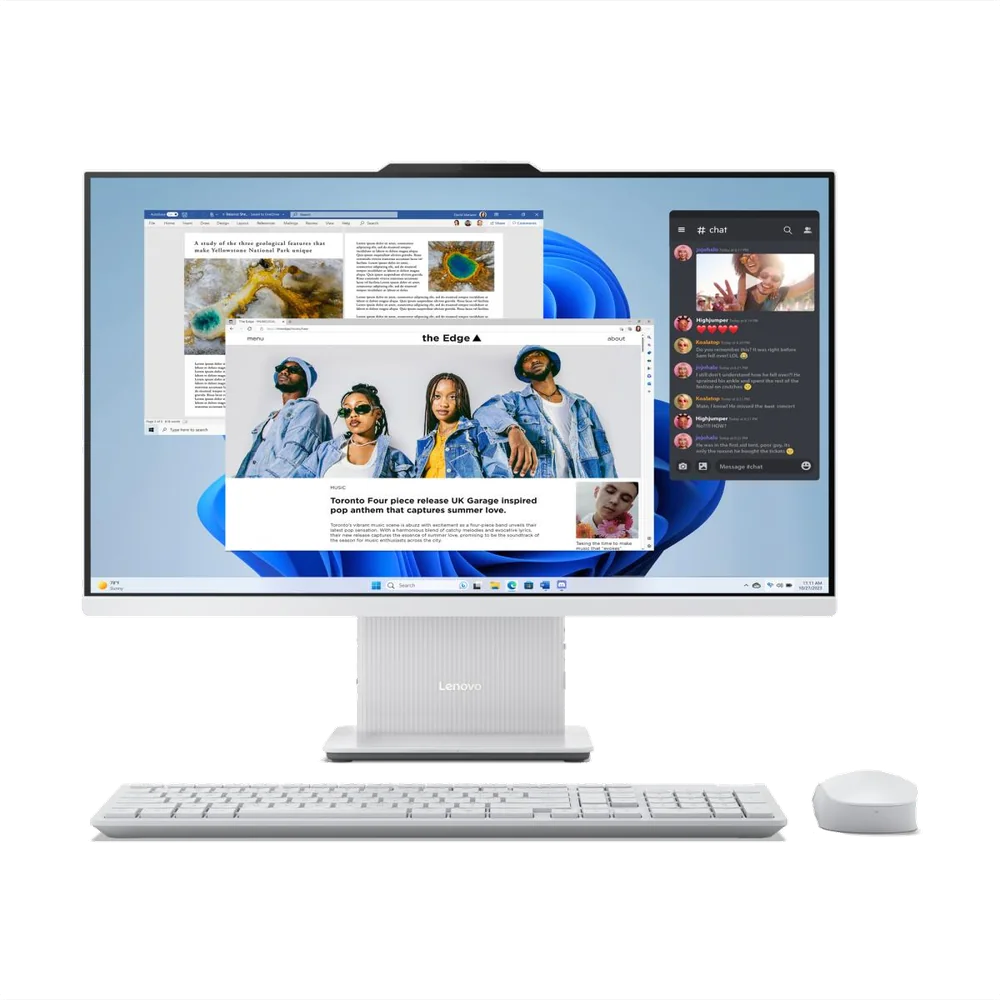
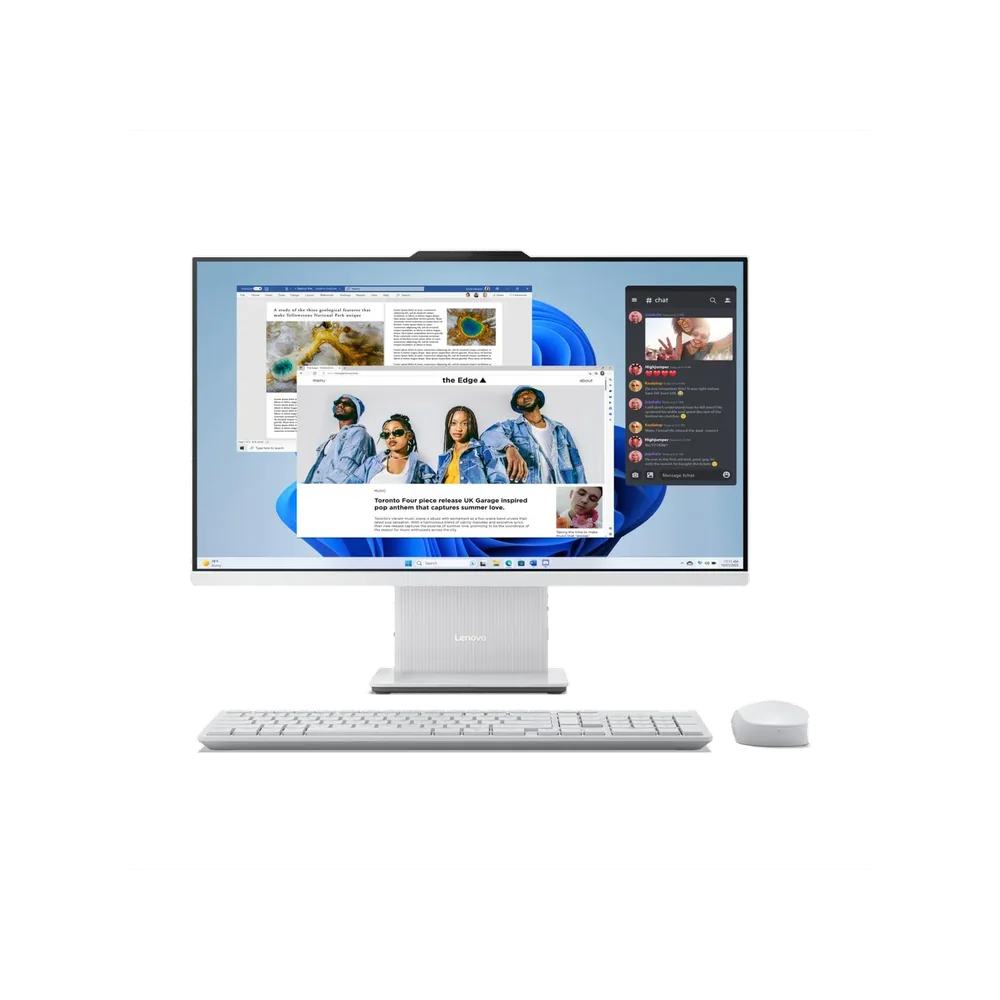
Fix Lenovo monoblock photo scale [skip ci]

diff --git a/PROJECT_STATUS.md b/PROJECT_STATUS.md
@@ -343,3 +343,16 @@ After owner review, continue with photos for other categories. Laptops after com
 - GitHub Pages build/deployment for the correction commit e6e80a8647a9eb64d841a38d4a919aac85c1db71 completed successfully (run 39471990812).
 - Static verification confirmed all seven monoblock cards, 26 existing monoblock WebP gallery files, unchanged product-page gallery logic, unchanged protected files, and the responsive image rules.
 - An interactive browser/screenshot runtime was not available in this environment, so live hover/touch interaction and pixel-level visual comparison could not be performed here. The CSS and asset checks were completed from the published source tree and deployment result.
+
+## Lenovo monoblock photo scale correction (2026-10-20)
+
+- Reframed only the main images for mono-004 (Lenovo IdeaCentre 27IRH9 Core i7) and mono-005 (Lenovo IdeaCentre 27IRH9 Core i5) on a 1000x1000 transparent canvas with a 0.74 visible-image ratio, preserving proportions and adding margins around the complete device.
+- Kept the existing monoblock CSS unchanged: the Lenovo badge remains above the image and the existing smooth hover animation, transition and card dimensions are preserved.
+- Did not modify HP mono-001, mono-003 or mono-007, MSI mono-006, the mono-002 placeholder, or any additional gallery image.
+- Product IDs, SKUs, titles, characteristics, prices, products.json, product.html, product.js, price.csv, filters, laptops and other categories remain protected.
+
+### Scope checks
+
+- Checked all seven monoblock card IDs and retained the existing main.webp links and product gallery arrays.
+- Protected every other asset under assets/products, every category page, product-page files, product data and price.csv; the correction script aborts on an unexpected change.
+- GitHub Pages and interactive visual checks are completed after the final commit; an unavailable browser runtime will be recorded explicitly.
